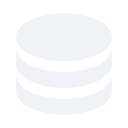
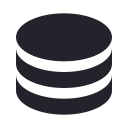
dark

diff --git a/index.html b/index.html
@@ -99,8 +99,8 @@
        margin-right: -1.9rem;
        margin-top:-0.4rem;
        border-radius: 0.7vh !important;
-      background-color: #282828;
-      padding:.8vh
+      background-color: #f2f2f2;
+      padding:.5vh
      }
    
    </style>
